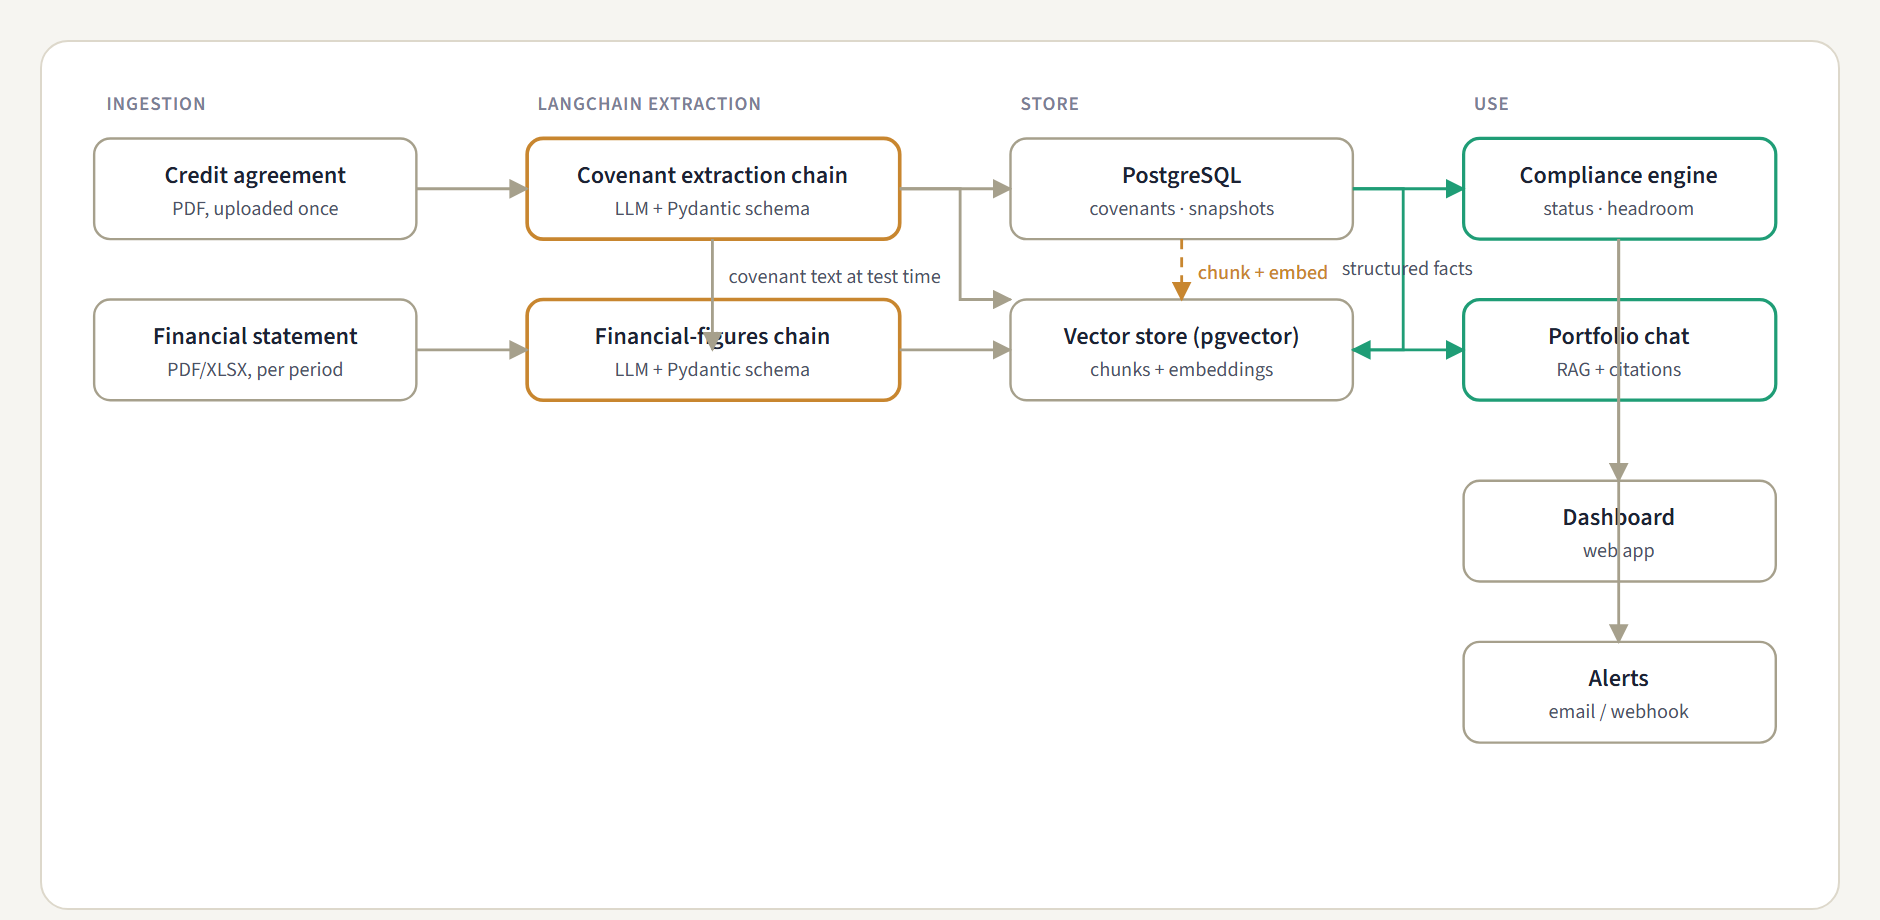
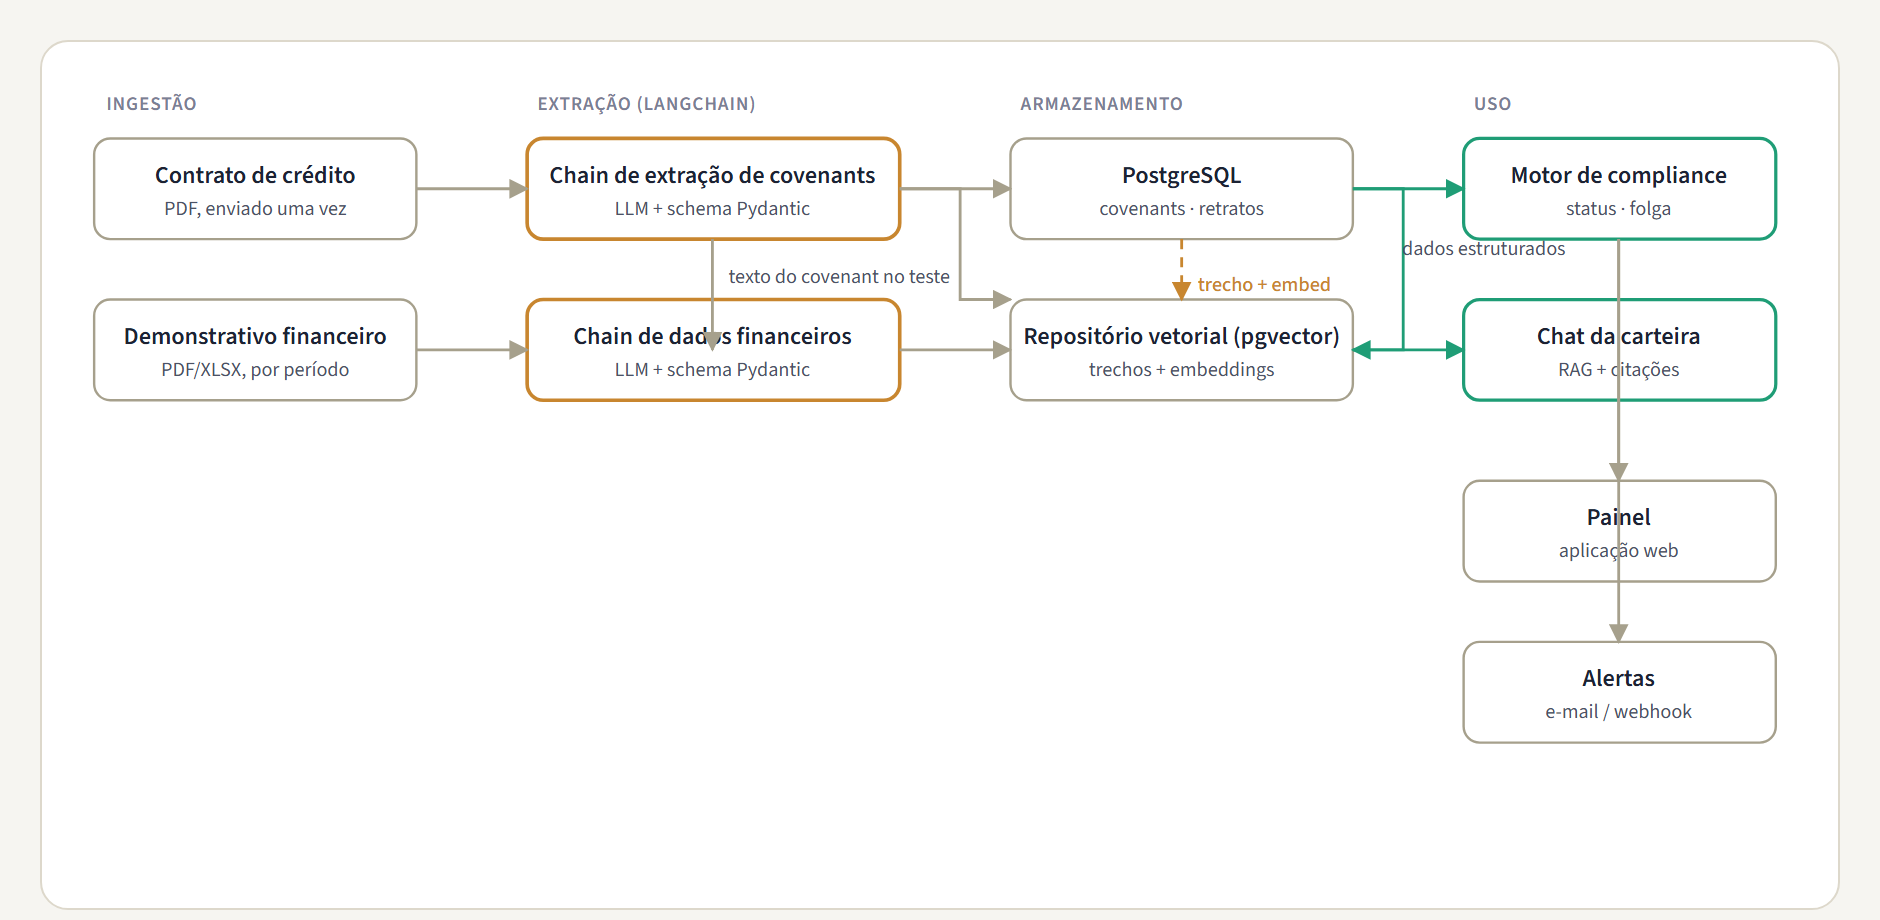
Translate README and diagrams to Portuguese

diff --git a/README.md b/README.md
@@ -2,52 +2,52 @@
 
 # CovenantIQ
 
-**AI-powered covenant compliance & credit portfolio intelligence.**
-Reads loan and credit agreements with an LLM, tracks financial covenants against borrower statements over time, and answers portfolio questions in natural language — grounded in the original documents.
+**Inteligência de compliance de covenants e de carteira de crédito, com IA.**
+Lê contratos de crédito com um LLM, acompanha covenants financeiros em relação aos demonstrativos do tomador ao longo do tempo, e responde perguntas sobre a carteira em linguagem natural — sempre com base nos documentos originais.
 
-[![Status](https://img.shields.io/badge/status-early--stage%20portfolio%20project-c8862f)](#roadmap)
-[![Python](https://img.shields.io/badge/python-3.11%2B-1e2a44)](#tech-stack)
-[![LangChain](https://img.shields.io/badge/LLM%20orchestration-LangChain-1f9d76)](#the-extraction-pipeline)
-[![License](https://img.shields.io/badge/license-MIT-4c5266)](#license)
+[![Status](https://img.shields.io/badge/status-projeto%20de%20portf%C3%B3lio%20em%20est%C3%A1gio%20inicial-c8862f)](#roteiro)
+[![Python](https://img.shields.io/badge/python-3.11%2B-1e2a44)](#stack-t%C3%A9cnica)
+[![LangChain](https://img.shields.io/badge/orquestra%C3%A7%C3%A3o%20de%20LLM-LangChain-1f9d76)](#o-pipeline-de-extra%C3%A7%C3%A3o)
+[![License](https://img.shields.io/badge/licen%C3%A7a-MIT-4c5266)](#licen%C3%A7a)
 
-[Whitepaper (PDF)](docs/whitepaper.pdf) · [Architecture](#architecture) · [Roadmap](#roadmap)
+[Whitepaper (PDF)](docs/whitepaper.pdf) · [Arquitetura](#arquitetura) · [Roteiro](#roteiro)
 
 </div>
 
-> **Portfolio project, synthetic data only.** Every figure, borrower name, and document referenced in this repository is generated for demonstration purposes. CovenantIQ is not affiliated with, and does not process data from, any real financial institution, lender, or client.
+> **Projeto de portfólio, com dados 100% sintéticos.** Todo número, nome de tomador e documento citado neste repositório foi gerado para fins de demonstração. O CovenantIQ não tem nenhuma relação com, e não processa dados de, nenhuma instituição financeira, credor ou cliente real.
 
-<img src="docs/dashboard.png" alt="CovenantIQ portfolio dashboard — loan list with covenant status and headroom trend chart" width="100%">
+<img src="docs/dashboard.png" alt="Painel de carteira do CovenantIQ — lista de contratos com status de covenant e gráfico de tendência de folga" width="100%">
 
 ---
 
-## The problem
+## O problema
 
-Every credit agreement a lender signs — a term loan, a debenture, a revolving facility — comes with **financial covenants**: contractual thresholds the borrower must keep meeting, like a maximum Net Debt / EBITDA ratio, a minimum liquidity balance, or a minimum debt-service coverage ratio.
+Todo contrato de crédito que um credor assina — um empréstimo a prazo, uma debênture, uma linha rotativa — vem com **covenants financeiros**: limites contratuais que o tomador precisa manter, como uma alavancagem máxima (Dívida Líquida/EBITDA), um saldo mínimo de liquidez, ou um índice mínimo de cobertura do serviço da dívida.
 
-In most credit funds and bank portfolios, checking these covenants is still manual: an analyst re-reads the agreement to recall the exact definition and threshold, then cross-references it against whatever financial statement the borrower sent that quarter. Across a portfolio of fifty or a hundred loans, this doesn't scale — and it means breaches are often caught **after** the fact, instead of as a trend the moment a borrower's headroom starts shrinking.
+Na maioria dos fundos e carteiras de crédito, checar esses covenants ainda é manual: um analista relê o contrato pra lembrar a definição e o limite exatos, depois cruza isso na mão com o demonstrativo financeiro que o tomador mandou naquele trimestre. Numa carteira de cinquenta ou cem contratos, isso não escala — e o resultado é que a quebra de covenant costuma ser percebida **depois** do fato, em vez de aparecer como uma tendência no momento em que a folga do tomador começa a encolher.
 
-CovenantIQ is a proof-of-concept for the other approach: read the legal document once with an LLM to get a structured, queryable definition of every covenant, then feed financial data into that structure continuously so breaches — and early warning signs — surface automatically.
+O CovenantIQ é uma prova de conceito pra inverter essa lógica: ler o documento jurídico uma vez com um LLM pra obter uma definição estruturada e consultável de cada covenant, e então alimentar essa estrutura continuamente com os dados financeiros, pra que quebras — e sinais de alerta antecipado — apareçam sozinhos.
 
-## What it does
+## O que o sistema faz
 
 | | |
 |---|---|
-| **Extract** | Upload a credit agreement PDF. A LangChain extraction chain pulls parties, principal, rate, maturity, and every financial covenant as a structured, typed definition (metric, operator, threshold, test frequency, cure period). |
-| **Monitor** | Each time a borrower's financial statement comes in, a second extraction pass pulls the line items each covenant needs, computes the actual ratio, and stores a dated compliance snapshot — not just pass/fail, but how much headroom is left. |
-| **Visualize** | A dashboard rolls every loan's covenant status into one portfolio view: what's compliant, what's in warning range, what's breached, and whose headroom has been shrinking quarter over quarter. |
-| **Ask** | A retrieval-augmented chat answers questions like *"which loans have a leverage covenant with less than 10% headroom?"* — grounded in the actual agreement text, with a citation back to the source page. |
+| **Extrair** | Envie o PDF do contrato de crédito. Uma chain de extração do LangChain identifica as partes, o principal, a taxa, o vencimento e cada covenant financeiro como uma definição estruturada e tipada (métrica, operador, limite, frequência de teste, prazo de cura). |
+| **Monitorar** | A cada demonstrativo financeiro que chega, uma segunda extração pega os itens contábeis que cada covenant precisa, calcula o índice real e grava um retrato de conformidade datado — não só aprovado/reprovado, mas quanta folga ainda resta. |
+| **Visualizar** | Um painel consolida o status de covenant de cada contrato numa visão só de carteira: o que está em dia, o que está em alerta, o que quebrou, e de quem a folga vem encolhendo trimestre após trimestre. |
+| **Perguntar** | Um chat com busca aumentada (RAG) responde perguntas como *"quais contratos têm um covenant de alavancagem com menos de 10% de folga?"* — sempre com base no texto real do contrato, com a citação da página de origem. |
 
-## Architecture
+## Arquitetura
 
-Two ingestion paths feed the same store: the agreement (read once, rarely changes) and the financial statements (read every reporting period). The compliance engine and the portfolio chat both read from that store.
+Duas entradas de dados alimentam o mesmo repositório: o contrato (lido uma vez, muda raramente) e os demonstrativos financeiros (lidos a cada período). Tanto o motor de compliance quanto o chat da carteira leem desse mesmo repositório.
 
-<img src="docs/architecture.png" alt="CovenantIQ architecture diagram: agreement and financial-statement ingestion through LangChain extraction chains, into PostgreSQL and a pgvector store, feeding the compliance engine, dashboard, alerts, and RAG chat" width="100%">
+<img src="docs/architecture.png" alt="Diagrama de arquitetura do CovenantIQ: ingestão do contrato e dos demonstrativos financeiros por chains de extração do LangChain, gravação no PostgreSQL e num repositório vetorial (pgvector), alimentando o motor de compliance, o painel, os alertas e o chat com RAG" width="100%">
 
-## The extraction pipeline
+## O pipeline de extração
 
-The hardest part of this project isn't calling an LLM — it's getting a covenant definition out of dense legal prose as something a program can actually test later.
+A parte mais difícil deste projeto não é chamar um LLM — é transformar a definição de um covenant, escrita em texto jurídico denso, em algo que um programa consiga testar depois.
 
-**Structured output, not free text.** Every extraction call uses LangChain's `with_structured_output()` bound to a Pydantic model, so the response is validated against a schema before it ever reaches the database — a malformed covenant (missing threshold, ambiguous operator) fails loudly at extraction time, not three months later when the engine tries to test it.
+**Saída estruturada, não texto livre.** Toda chamada de extração usa o `with_structured_output()` do LangChain, vinculado a um modelo Pydantic, então a resposta é validada contra um schema antes de chegar ao banco — um covenant malformado (sem limite, com operador ambíguo) falha de forma clara já na extração, não três meses depois, quando o motor tenta testá-lo.
 
 ```python
 class Covenant(BaseModel):
@@ -57,62 +57,62 @@ class Covenant(BaseModel):
     threshold: float
     test_frequency: Literal["quarterly", "annual"]
     cure_period_days: int | None
-    source_clause: str          # verbatim clause, for audit + citations
+    source_clause: str          # cláusula literal, para auditoria e citações
     source_page: int
 
 extraction_chain = prompt_template | llm.with_structured_output(CovenantExtractionResult)
 result = extraction_chain.invoke({"document_text": agreement_text})
 ```
 
-Every extracted covenant carries a `source_page` and the verbatim clause it came from — the same anchor the chat's citations use later (see the [whitepaper](docs/whitepaper.pdf), §4 and §7, for the full extraction and retrieval design).
+Cada covenant extraído carrega uma `source_page` e a cláusula literal de onde veio — a mesma âncora que as citações do chat usam depois (veja o [whitepaper](docs/whitepaper.pdf), §4 e §7, para o desenho completo de extração e busca).
 
-## Tech stack
+## Stack técnica
 
-| Layer | Choice |
+| Camada | Escolha |
 |---|---|
 | API | FastAPI |
-| LLM orchestration | LangChain (structured-output extraction chains, RAG retrieval chain) |
-| Database | PostgreSQL + pgvector — one store for structured covenant data and embeddings |
-| Background jobs | Celery + Redis |
+| Orquestração de LLM | LangChain (chains de extração com saída estruturada, chain de busca para o RAG) |
+| Banco de dados | PostgreSQL + pgvector — um só repositório para dado estruturado e embeddings |
+| Processamento assíncrono | Celery + Redis |
 | Frontend | React + TypeScript |
-| Deployment | Docker Compose |
+| Implantação | Docker Compose |
 
-## Repository structure
+## Estrutura do repositório
 
 ```
 covenant-iq/
-├── api/                    FastAPI app — routes, auth, schemas
-│   ├── extraction/         LangChain chains (agreement + financials)
-│   ├── engine/             compliance engine (config-driven rules)
-│   ├── chat/               RAG retrieval chain
-│   └── models/             SQLAlchemy models
-├── worker/                 Celery tasks (async extraction, re-scoring)
-├── web/                    React + TypeScript dashboard
-├── data/synthetic/         generated demo loans, agreements, statements
+├── api/                    app FastAPI — rotas, autenticação, schemas
+│   ├── extraction/         chains do LangChain (contrato + demonstrativos)
+│   ├── engine/             motor de compliance (regras configuráveis)
+│   ├── chat/               chain de busca do RAG
+│   └── models/             modelos SQLAlchemy
+├── worker/                 tarefas Celery (extração assíncrona, recálculo)
+├── web/                    painel em React + TypeScript
+├── data/synthetic/         contratos, demonstrativos e dados sintéticos de exemplo
 ├── docs/
-│   ├── whitepaper.pdf       full technical whitepaper
+│   ├── whitepaper.pdf       whitepaper técnico completo
 │   ├── architecture.png
 │   └── dashboard.png
 ├── docker-compose.yml
 └── README.md
 ```
 
-## Roadmap
+## Roteiro
 
-- [ ] **v0.1 — Core pipeline:** agreement upload → covenant extraction → manual review → compliance engine → dashboard. Synthetic data only.
-- [ ] **v0.2 — Chat:** RAG retrieval chain over the extracted portfolio, with citations.
-- [ ] **v0.3 — Alerting:** configurable early-warning thresholds, email/webhook delivery.
-- [ ] **v0.4 — Multi-document agreements:** amendments and side letters that modify an original covenant.
-- [ ] **Stretch:** extraction confidence scoring, so the human-review queue prioritizes the extractions most likely to be wrong.
+- [ ] **v0.1 — Pipeline principal:** upload do contrato → extração de covenants → revisão manual → motor de compliance → painel. Só com dados sintéticos.
+- [ ] **v0.2 — Chat:** chain de busca (RAG) sobre a carteira extraída, com citações.
+- [ ] **v0.3 — Alertas:** limites de alerta antecipado configuráveis, envio por e-mail/webhook.
+- [ ] **v0.4 — Contratos com múltiplos documentos:** aditivos e cartas-side que alteram um covenant original.
+- [ ] **Ideia futura:** pontuação de confiança na extração, para a fila de revisão humana priorizar o que tem mais chance de estar errado.
 
-Full design detail — data model, security & governance considerations, and the reasoning behind each decision — is in the [technical whitepaper](docs/whitepaper.pdf).
+O detalhamento completo do projeto — modelo de dados, considerações de segurança e governança, e o raciocínio por trás de cada decisão — está no [whitepaper técnico](docs/whitepaper.pdf).
 
-## License
+## Licença
 
-MIT — see [`LICENSE`](LICENSE).
+MIT — veja [`LICENSE`](LICENSE).
 
 ---
 
 <div align="center">
-<sub>Built as a portfolio project to demonstrate applied LLM/LangChain engineering for financial-services document intelligence. Synthetic data only.</sub>
+<sub>Construído como projeto de portfólio para demonstrar engenharia aplicada de LLM/LangChain em inteligência documental para o mercado financeiro. Somente dados sintéticos.</sub>
 </div>
